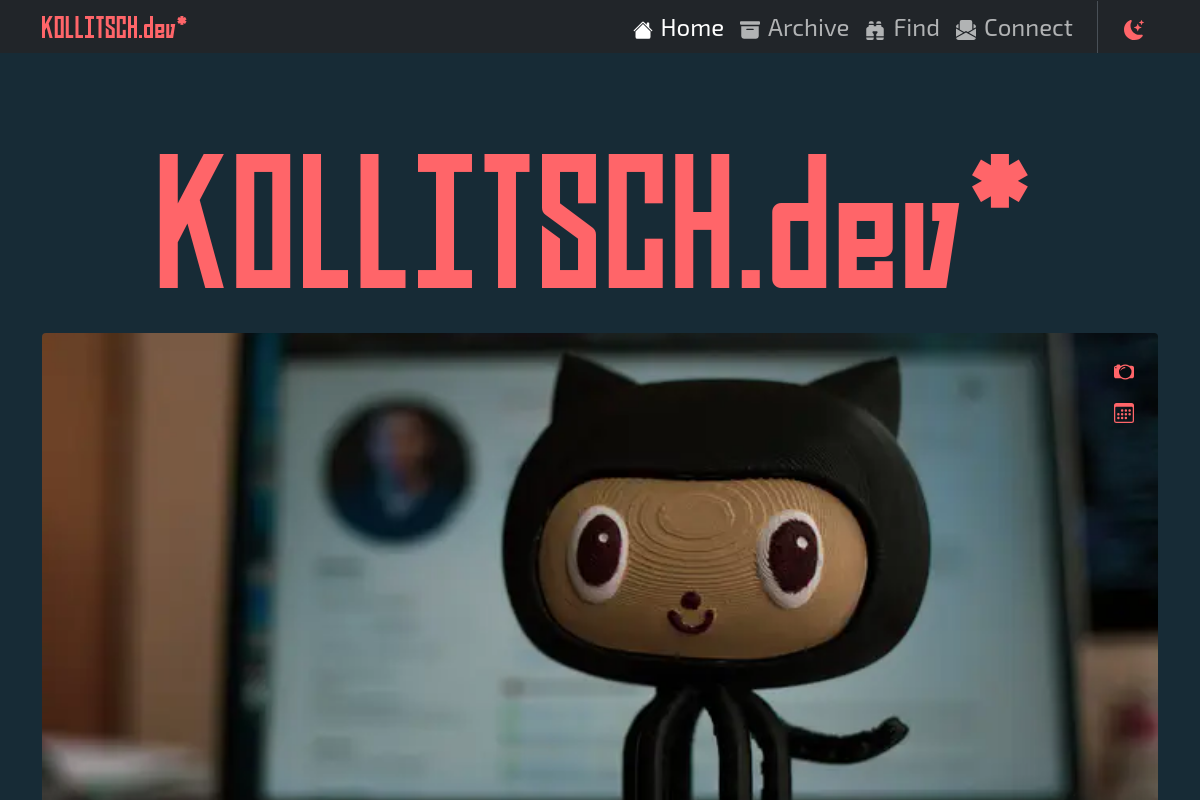
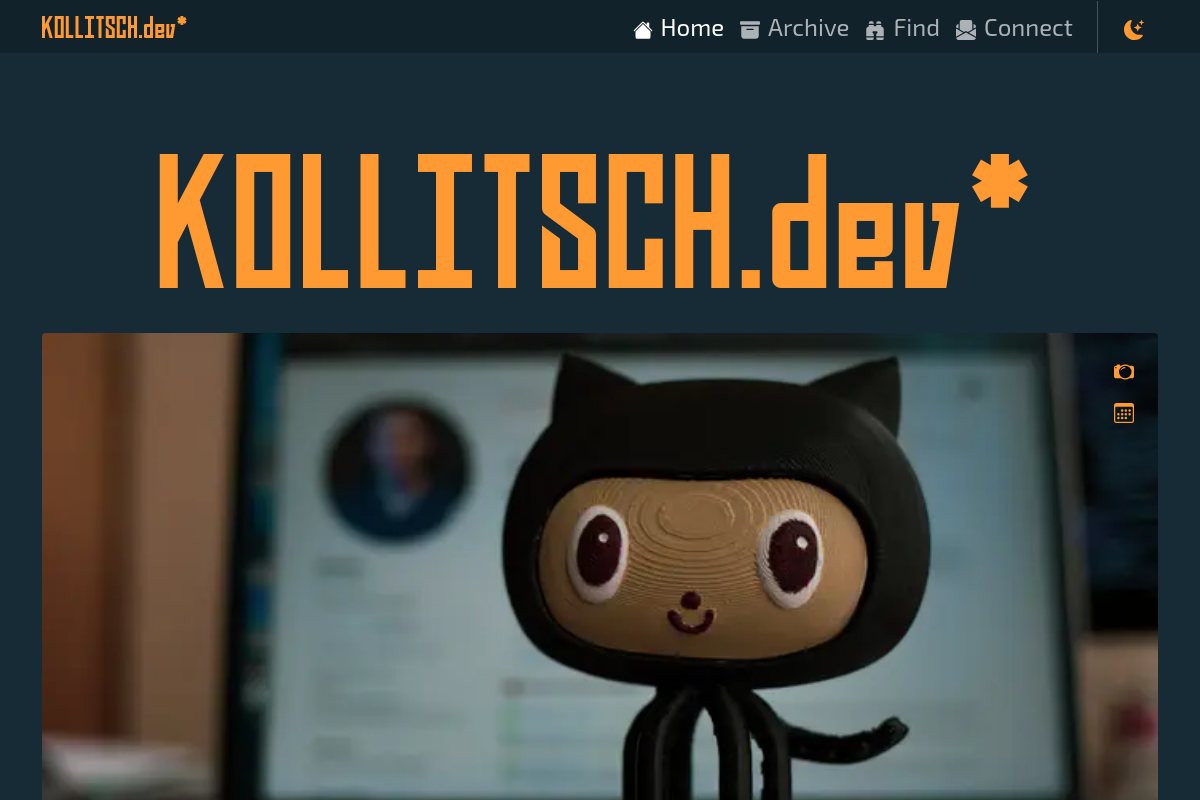
chore(release): v2024.1.27

diff --git a/CHANGELOG.md b/CHANGELOG.md
@@ -2,12 +2,39 @@
 
 All notable changes to this project will be documented in this file. See [commit-and-tag-version](https://github.com/absolute-version/commit-and-tag-version) for commit guidelines.
 
+## [2024.1.27](https://github.com/davidsneighbour/kollitsch.dev/compare/v2024.1.26...v2024.1.27) (2024-04-21)
+
+
+### Chore
+
+* add templates for existing theme settings in bootstrap to scss settings ([4ed054e](https://github.com/davidsneighbour/kollitsch.dev/commit/4ed054ec8f530120de101c30b0bfd1959e2efd7e))
+* **deps:** update dependencies and workspace ([72391a7](https://github.com/davidsneighbour/kollitsch.dev/commit/72391a76ac84ff66df158fbe1f5307be076ead6e))
+
+
+### Features
+
+* add navbar transition with intersection observer ([b476142](https://github.com/davidsneighbour/kollitsch.dev/commit/b4761422d8f74c9aa94817a1d58f4797ed04a003))
+
+
+### Bug Fixes
+
+* refactor and rework styles ([3c42551](https://github.com/davidsneighbour/kollitsch.dev/commit/3c42551f8301517e5500eccbba1df2ba1b1d2062))
+* sassdoc generation into documentation folder and ignore ([219655a](https://github.com/davidsneighbour/kollitsch.dev/commit/219655afe6ac3b5b72dc4759977973a90272c546))
+* theme switcher empties class list instead of toggling theme class ([9c6114b](https://github.com/davidsneighbour/kollitsch.dev/commit/9c6114b4703948d24d8a6e996ed7f9b5df9a8f9f))
+
+
+### Theme
+
+* **wip:** color changes ([73c1b9d](https://github.com/davidsneighbour/kollitsch.dev/commit/73c1b9d068e74d5c11fc6aefa657afec398957a1))
+* **wip:** footer colors ([99a293e](https://github.com/davidsneighbour/kollitsch.dev/commit/99a293e28d2a0fdce9aaac7b0b567d99ef3be98a))
+
 ## [2024.1.26](https://github.com/davidsneighbour/kollitsch.dev/compare/v2024.1.25...v2024.1.26) (2024-04-17)
 
 
 ### Chore
 
 * **git:** update bin submodule ([3d48adc](https://github.com/davidsneighbour/kollitsch.dev/commit/3d48adc8ac4c056b4201eff9a8cc7b24dd01e345))
+* **release:** v2024.1.26 ([ecf1f3e](https://github.com/davidsneighbour/kollitsch.dev/commit/ecf1f3e2c56b3203fe524a65aa10642d29f14b60))
 
 
 ### Bug Fixes
